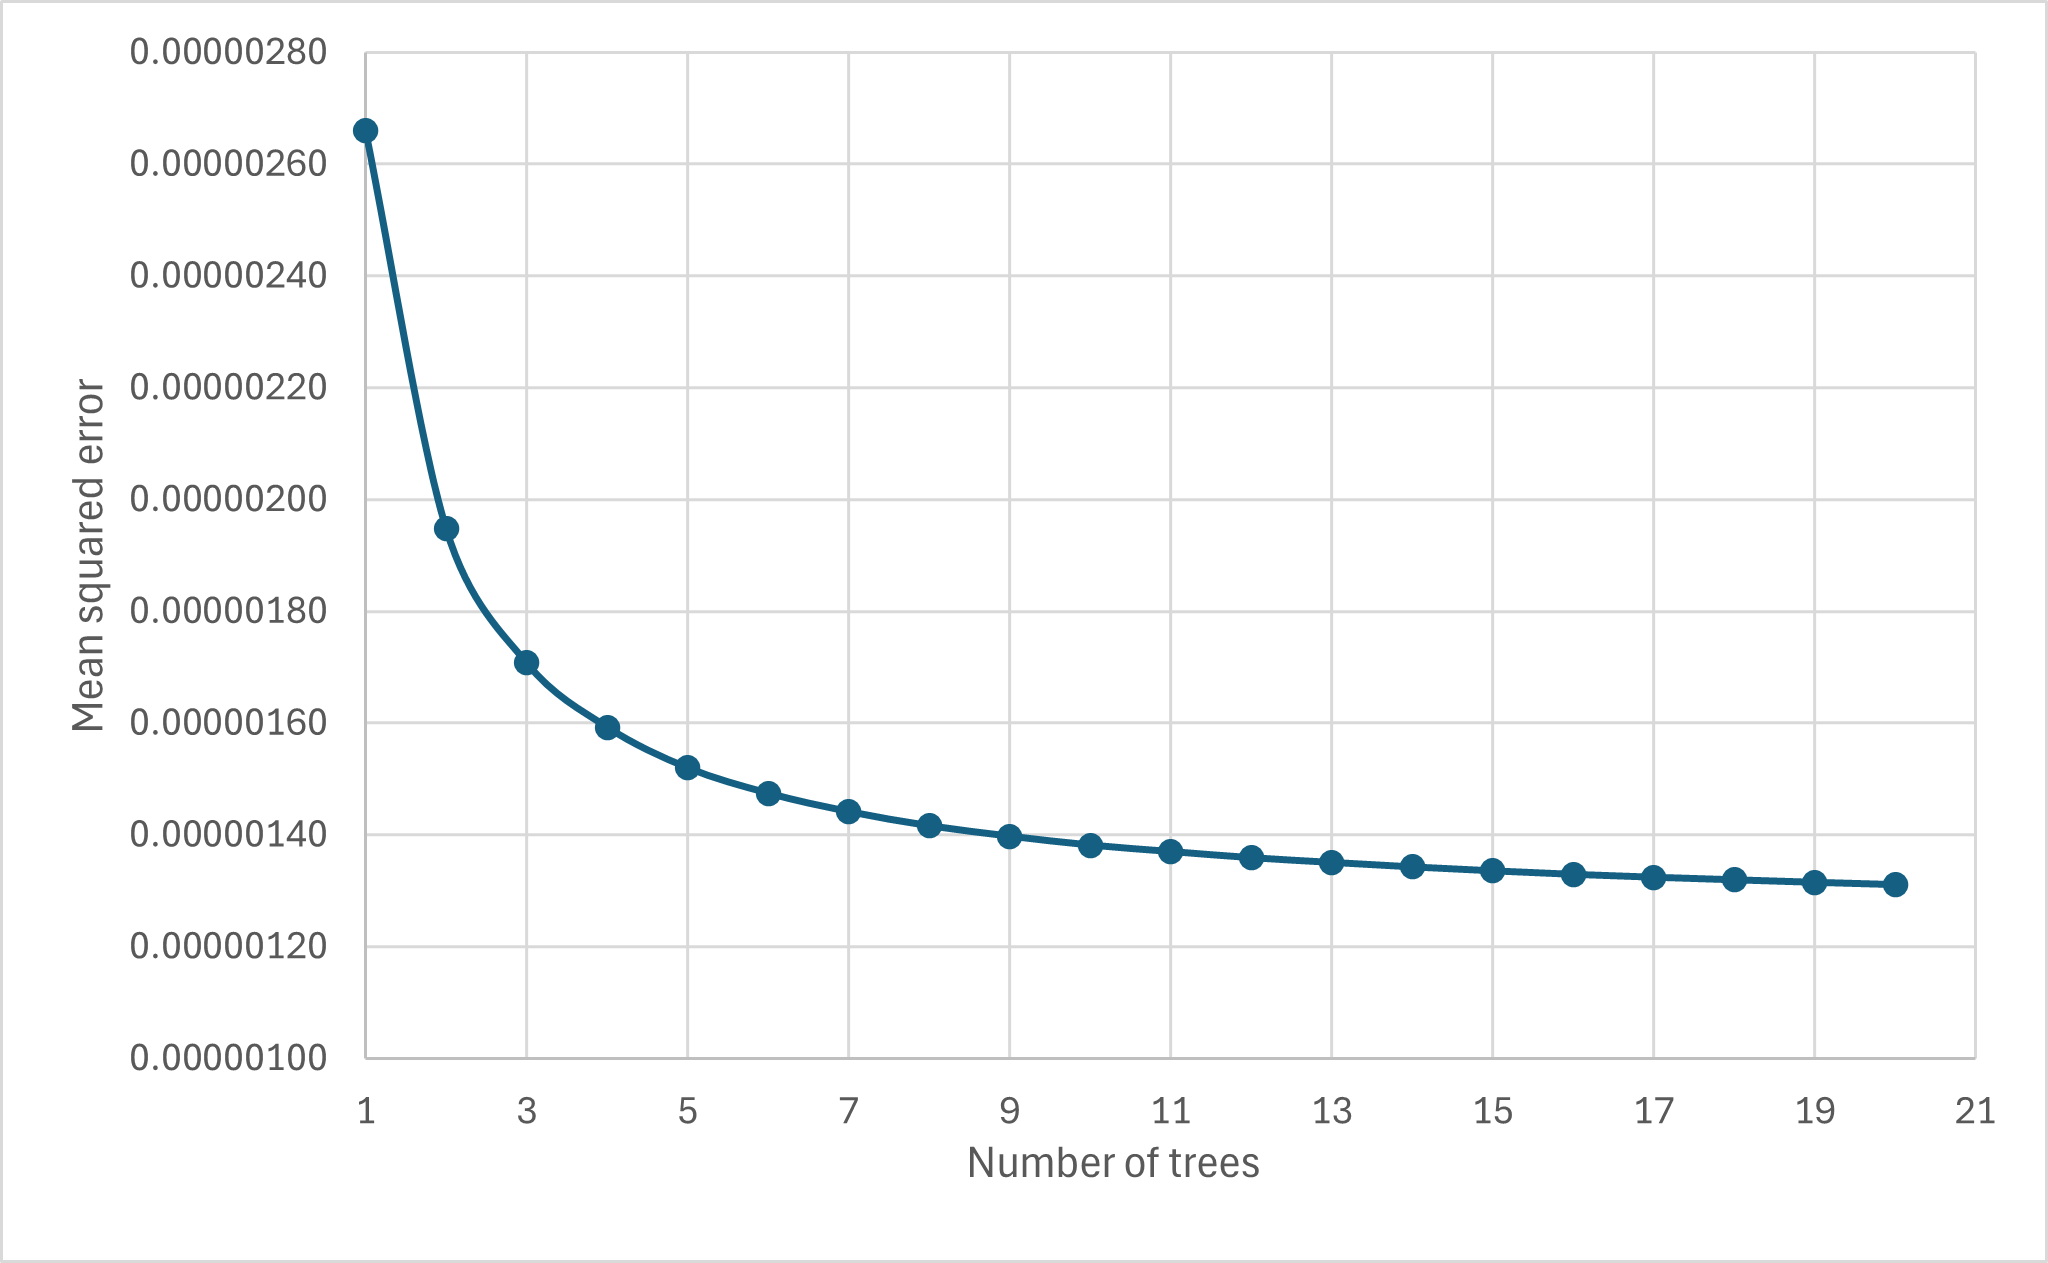
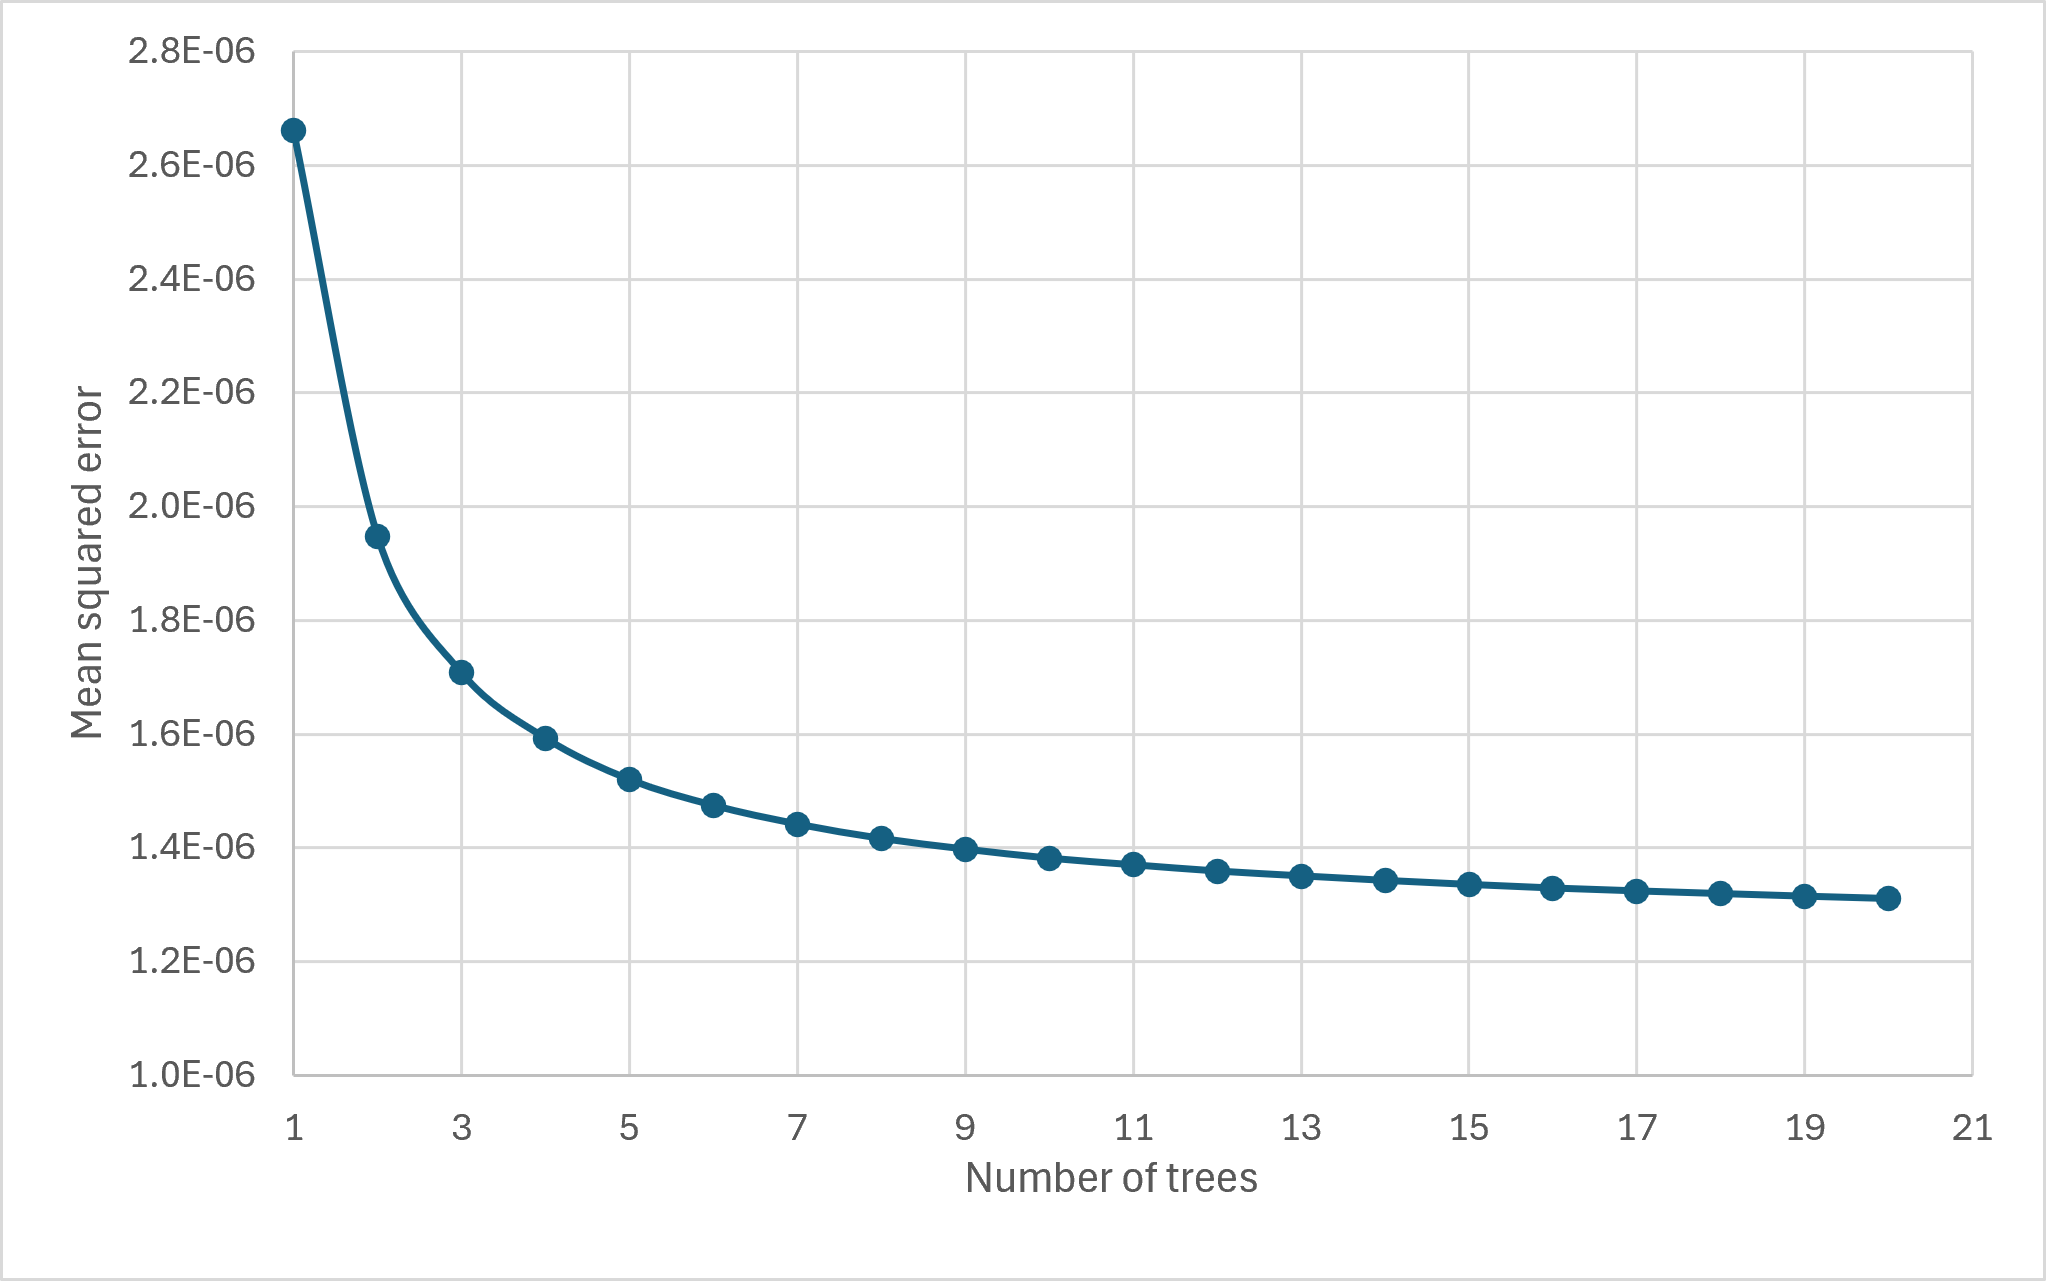
Flux calculation explanation.

diff --git a/template.tex b/template.tex
@@ -154,7 +154,7 @@
 
 \begin{document}
 
-\title{Emulation of the United Kingdom Chemistry and Aerosols (version 13.9) Photolysis Schemes (Fast-JX version 6.4) with a Random Forest}
+\title{Emulation of the United Kingdom Chemistry and Aerosols (version 13.9) Photolysis Schemes (Fast-JX version 6.4) with a Random Forest (Forest-J version 1.0)}
 
 
 % \Author[affil]{given_name}{surname}
@@ -216,7 +216,7 @@ The primary objective of this project was to develop a machine learning model to
 UKCA photolysis rate coefficients for multiple reactions were emulated using a random forest, which was trained offline in python using physical input data from the UM, including solar zenith angle, temperature and cloud information, as well as shortwave solar fluxes from the radiation scheme. The random forest was then integrated into UKCA in Fortran and run online in the UM. 
 
 % Accuracy.
-The random forest was able to emulate UKCA photolysis rate coefficients accurately, with a coefficient of determination of 0.97 compared to the original scheme over all emulated reactions, and 0.76 to over 0.99 for individual reactions. When coupled to the UM, the results compared well between simulations with the standard interactive photolysis scheme and the random forest emulator. Ozone mixing ratios were... {summarise the impacts on concentrations of species} 
+The random forest was able to emulate UKCA photolysis rate coefficients accurately, with a coefficient of determination of 0.97 compared to the original scheme over all emulated reactions, and 0.76 to over 0.99 for individual reactions. When coupled to the UM, the results compared well between simulations with the standard photolysis scheme and the emulator. Ozone mixing ratios were... {summarise the impacts on concentrations of species} 
 % Speedup.
 The random forest photolysis scheme ran seven times faster in UKCA than the main existing photolysis scheme, Fast-JX, and the whole UM ran 1.97\% faster, potentially allowing an extra four weeks of simulation per real day.
 
@@ -241,7 +241,7 @@ J_i,z = \int_{0}^{\infty} \Phi_i (\lambda, T) \sigma_i (\lambda, T) F_z (\theta,
 where $\Phi$ is the quantum yield for photolysis of the chemical, $\lambda$ is the wavelength, $T$ is the temperature, $\sigma$ is the absorption cross-section, $F$ is the flux of light, also known as the actinic flux, $\theta$ is the solar zenith angle and $d \lambda$ is the change in wavelength \citep{king_calculating_2013}. Flux refers to the difference in the amount of radiation reaching the molecule over time, which varies significantly at a point in space over the course of a day.
 At a point in space and time in the atmosphere, the solar zenith angle (SZA, $\theta$) is the angle between the direction of incoming solar radiation and the local vertical line perpendicular to the Earth's surface at that point \citep{finlayson-pitts_chemistry_2000}. 
 
-The photon flux, F, is calculated by {add some details here about how F is calculated -- this is a big part of what FastJx is doing so needs to come here so the reader understands why this is complex} 
+Fast-JX performs several linear functions to determine flux, $F$, at every latitude, longitude and vertical level, for each wavelength bin.
 J-values can range from around $10^{-16} s^{-1}$ to over $10^{-2} s^{-1}$ for different species in the atmosphere and vary greatly with altitude.
 
 % UKESM, UM and UKCA.
@@ -372,14 +372,14 @@ The random forest design was tuned by adjusting number of trees, depth of trees,
 
 \begin{figure}[htpb]
     \centering 
-    \includegraphics[scale=0.9]{images/Forest n trees MSE.svg}
+    \includegraphics[scale=0.9]{images/Forest n trees MSE.png}
     \caption{\textit{MSE of random forests of 1 to 20 trees, predicting a representative subset of reactions (\JHCHOr, \JOOO, \JNOO, \JNOOO, \JHOCl\ and \JHHOO) from physical inputs in a global sample of one year of data.}}
     \label{n trees MSE}
 \end{figure}
 
 \begin{figure}[htpb]
     \centering 
-    \includegraphics[scale=0.95]{images/n trees R2.svg}
+    \includegraphics[scale=0.95]{images/n trees R2.png}
     \caption{\textit{Mean \RR\ scores of predictions to targets from random forests containing different numbers of trees, from 1 to 100. Physical inputs were used to predict all J-values in a global sample of one year of data.}}
     \label{n trees R2}
 \end{figure}
